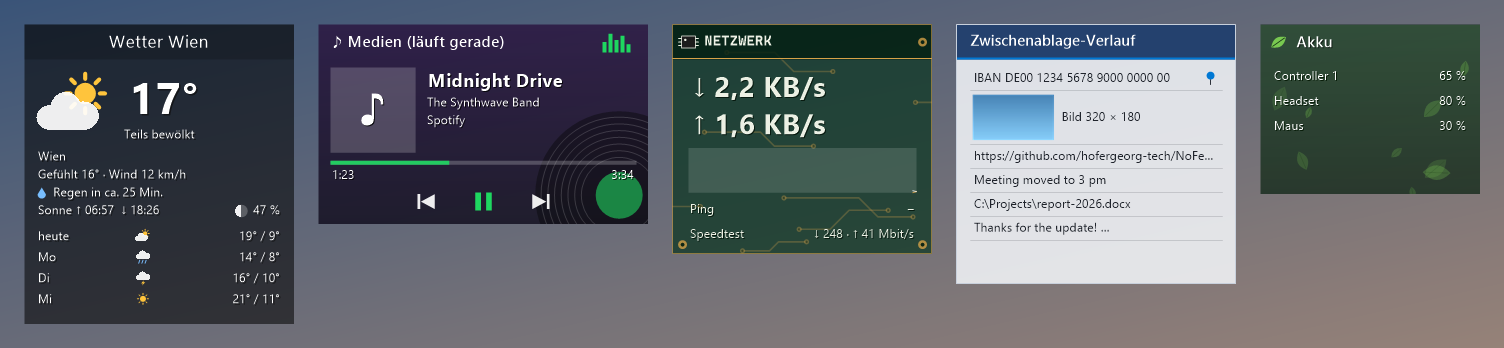
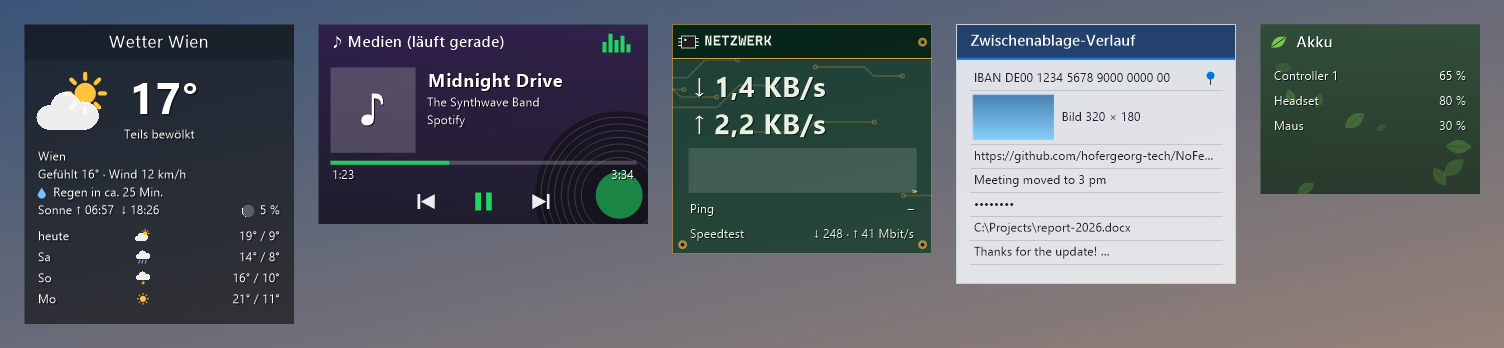
Clipboard history masks passwords (version 2.13.0)
- Entries that look like a password (one line, no spaces, 8-64 chars,
  three of upper/lower/digit/symbol, not a link, path or e-mail) show as
  dots, have no tooltip and can't be pinned, so they never end up in
  fences.json; a click still copies them. Menu: Mask passwords (default on)
- The widget option is now an object with the pinned list and the setting;
  the old plain list still loads
- Changelogs dated, help in five languages

diff --git a/NoFences/Widgets/ClipboardWidget.cs b/NoFences/Widgets/ClipboardWidget.cs
@@ -141,7 +141,12 @@ namespace NoFences.Widgets
                 return;
             try
             {
-                foreach (var p in JsonSerializer.Deserialize<List<PinnedEntry>>(json) ?? new())
+                // Up to 2.12 the option was just the list of pinned entries
+                var options = json.TrimStart().StartsWith('[')
+                    ? new Options { Pinned = JsonSerializer.Deserialize<List<PinnedEntry>>(json) ?? new() }
+                    : JsonSerializer.Deserialize<Options>(json) ?? new Options();
+                showPasswords = options.ShowPasswords;
+                foreach (var p in options.Pinned)
                 {
                     if (p.Text != null)
                         history.AddPinned(new ClipItem { Text = p.Text });
@@ -183,7 +188,28 @@ namespace NoFences.Widgets
                         pinned.Add(new PinnedEntry(null, item.File));
                 }
             }
-            setOption(pinned.Count == 0 ? null : JsonSerializer.Serialize(pinned));
+            setOption(pinned.Count == 0 && !showPasswords ? null : JsonSerializer.Serialize(new Options { Pinned = pinned, ShowPasswords = showPasswords }));
+        }
+
+        /// <summary>What the widget keeps in its fence's option.</summary>
+        private sealed class Options
+        {
+            public List<PinnedEntry> Pinned { get; set; } = new();
+
+            /// <summary>Off by default: entries that look like passwords show as dots.</summary>
+            public bool ShowPasswords { get; set; }
+        }
+
+        private bool showPasswords;
+
+        /// <summary>Shown as dots, no tooltip, can't be pinned (it would be saved as plain text).</summary>
+        private bool Masked(ClipItem item) => !showPasswords && item.Text != null && ClipboardHistory.LooksLikePassword(item.Text);
+
+        private void ToggleShowPasswords()
+        {
+            showPasswords = !showPasswords;
+            SavePinned();
+            RequestRedraw();
         }
 
         private void TogglePin(ClipItem item)
@@ -239,7 +265,8 @@ namespace NoFences.Widgets
                 }
                 else
                 {
-                    c.Text(ClipboardHistory.OneLine(item.Text ?? ""), new RectangleF(rect.X + c.Px(2), y + c.Px(2), textWidth, line));
+                    var shown = Masked(item) ? MaskedText : ClipboardHistory.OneLine(item.Text ?? "");
+                    c.Text(shown, new RectangleF(rect.X + c.Px(2), y + c.Px(2), textWidth, line));
                 }
                 if (item.Pinned)
                     DrawPin(c, rect.Right - c.Px(12), y + height / 2);
@@ -268,7 +295,10 @@ namespace NoFences.Widgets
             return hovered != null;
         }
 
-        public override string? TooltipAt(Point p) => ItemAt(p) is { Text: { } text } ? (text.Length > 400 ? text[..400] + " …" : text) : null;
+        private const string MaskedText = "••••••••";
+
+        public override string? TooltipAt(Point p) =>
+            ItemAt(p) is { Text: { } text } item && !Masked(item) ? (text.Length > 400 ? text[..400] + " …" : text) : null;
 
         public override bool Click(Point p)
         {
@@ -296,9 +326,10 @@ namespace NoFences.Widgets
         public override void AddMenuItems(ToolStripItemCollection menu, IWin32Window owner)
         {
             // The entry under the mouse when the menu opened
-            if (hovered is { } item && history.Items.Contains(item))
+            if (hovered is { } item && history.Items.Contains(item) && (item.Pinned || !Masked(item)))
                 menu.Add(item.Pinned ? Strings.ClipboardUnpin : Strings.ClipboardPin, null, (_, _) => TogglePin(item));
             menu.Add(Strings.ClipboardClear, null, (_, _) => history.Clear());
+            menu.Add(new ToolStripMenuItem(Strings.ClipboardMaskPasswords, null, (_, _) => ToggleShowPasswords()) { Checked = !showPasswords });
         }
 
         public override void Dispose()
@@ -469,6 +500,27 @@ namespace NoFences.Widgets
                 return false;
             return data.GetData("CanIncludeInClipboardHistory") is MemoryStream { Length: >= 4 } stream
                 && BitConverter.ToInt32(stream.ToArray(), 0) == 0;
+        }
+
+        /// <summary>
+        /// Guesses whether a copied text is a password (Windows has no marker for that; password managers set
+        /// one, and those copies aren't recorded at all): one line without spaces, 8–64 characters, at least
+        /// three of upper case, lower case, digits and symbols, and not a link, path or e-mail address.
+        /// </summary>
+        public static bool LooksLikePassword(string text)
+        {
+            var t = text.Trim();
+            if (t.Length is < 8 or > 64 || t.Any(char.IsWhiteSpace))
+                return false;
+            if (t.Contains("://") || t.StartsWith("www.", StringComparison.OrdinalIgnoreCase) || t.Contains('\\')
+                || t.Contains('/') || (t.Length > 2 && t[1] == ':'))
+                return false;
+            var at = t.IndexOf('@');
+            if (at > 0 && t.IndexOf('.', at) > at + 1)
+                return false; // e-mail address
+            var kinds = (t.Any(char.IsUpper) ? 1 : 0) + (t.Any(char.IsLower) ? 1 : 0) + (t.Any(char.IsDigit) ? 1 : 0)
+                        + (t.Any(c => !char.IsLetterOrDigit(c)) ? 1 : 0);
+            return kinds >= 3;
         }
 
         /// <summary>First line, whitespace collapsed, with "…" if there was more.</summary>

diff --git a/NoFences.Tests/ClipboardPasswordTests.cs b/NoFences.Tests/ClipboardPasswordTests.cs
@@ -1,0 +1,42 @@
+using NoFences.Widgets;
+
+namespace NoFences.Tests
+{
+    public class ClipboardPasswordTests
+    {
+        [Theory]
+        [InlineData("Tr0ub4dor&3", true)]
+        [InlineData("k9#Lmq2!xZ", true)]
+        [InlineData("Ab3x9Kq2", true)]          // a harmless code looks the same – masked too
+        [InlineData("correcthorsebattery", false)] // one kind of characters only
+        [InlineData("sommer2026", false)]       // two kinds: not recognised
+        [InlineData("Short1!", false)]          // under 8
+        [InlineData("Hello World 123!", false)] // spaces: a sentence
+        [InlineData("https://Example.com/A1", false)]
+        [InlineData(@"C:\Users\Me\File1.txt", false)]
+        [InlineData("Max.Muster1@example.com", false)]
+        [InlineData("line1A!\nline2B?", false)]
+        public void LooksLikePassword(string text, bool expected) => Assert.Equal(expected, ClipboardHistory.LooksLikePassword(text));
+
+        [Fact]
+        public void OldPinnedList_StillLoads_AndNewFormatKeepsTheSetting()
+        {
+            string? option = """[{"Text":"pinned note","Image":null}]""";
+            var widget = new ClipboardWidget(() => option, o => option = o);
+            Assert.Equal("pinned note", Assert.Single(widget.History.Items).Text);
+
+            // Any save writes the new format, which still holds the pinned entry
+            widget.AddMenuItems(new ContextMenuStrip().Items, null!);
+            var toggle = new ContextMenuStrip();
+            widget.AddMenuItems(toggle.Items, null!);
+            toggle.Items.Cast<ToolStripItem>().OfType<ToolStripMenuItem>().Last().PerformClick();
+            Assert.Contains("\"ShowPasswords\":true", option);
+            Assert.Contains("pinned note", option);
+            widget.Dispose();
+
+            var again = new ClipboardWidget(() => option, o => option = o);
+            Assert.Equal("pinned note", Assert.Single(again.History.Items).Text);
+            again.Dispose();
+        }
+    }
+}

diff --git a/NoFences/PreviewRenderer.cs b/NoFences/PreviewRenderer.cs
@@ -424,7 +424,7 @@ namespace NoFences
                     });
                     break;
                 case Widgets.ClipboardWidget clipboard:
-                    foreach (var text in new[] { "https://github.com/hofergeorg-tech/NoFences", "Meeting moved to 3 pm", "C:\\Projects\\report-2026.docx", "Thanks for the update!\nSee you tomorrow" }.Reverse())
+                    foreach (var text in new[] { "https://github.com/hofergeorg-tech/NoFences", "Meeting moved to 3 pm", "k9#Lmq2!xZ", "C:\\Projects\\report-2026.docx", "Thanks for the update!\nSee you tomorrow" }.Reverse())
                         clipboard.History.Add(text);
                     clipboard.History.AddPinned(new Widgets.ClipItem { Text = "IBAN DE00 1234 5678 9000 0000 00" });
                     using (var demo = new Bitmap(320, 180))

diff --git a/NoFences/Util/Strings.cs b/NoFences/Util/Strings.cs
@@ -828,6 +828,7 @@ namespace NoFences.Util
             ? L("RecycleItems", size)
             : L("RecycleItems.Alt", n, size);
         public static string FpsRemoved => L("FpsRemoved");
+        public static string ClipboardMaskPasswords => L("ClipboardMaskPasswords");
         public static string WidgetsRetired(string names) => L("WidgetsRetired", names);
 
         #endregion

diff --git a/CHANGELOG.fr.md b/CHANGELOG.fr.md
@@ -4,10 +4,11 @@ Toutes les modifications importantes de ce fork.
 English: [CHANGELOG.md](CHANGELOG.md) · Deutsch: [CHANGELOG.de.md](CHANGELOG.de.md) ·
 Italiano: [CHANGELOG.it.md](CHANGELOG.it.md) · Español: [CHANGELOG.es.md](CHANGELOG.es.md)
 
-## [2.13.0] - non publiée
+## [2.13.0] - 2026-10-09
 
 ### Modifications
 - **Moins de widgets, plus rapides** : moniteur système, lecteurs, corbeille, jeux, temps de jeu, promos Steam, Twitch et page web ont été supprimés. Ils ralentissaient NoFences (listes de processus, compteurs matériels, disques en veille) ou dépendaient de services non officiels ; le widget page web faisait en plus tourner un navigateur caché. Leurs barrières sont retirées au premier démarrage (une notification les liste ; la dernière sauvegarde les contient encore). L'exe est aussi plus petit.
+- **L'historique du presse-papiers masque les mots de passe** : ce qui y ressemble (une ligne, sans espaces, 8 à 64 caractères mélangés) s'affiche en points, sans info-bulle et sans épinglage (donc jamais enregistré en clair) ; un clic le copie quand même. À désactiver dans le menu du widget.
 - Le rangement depuis le bureau déplace les gros fichiers en arrière-plan au lieu de figer les barrières.
 - Les mises à jour ne sont installées que si le téléchargement correspond à la somme de contrôle indiquée par GitHub pour la version.
 - Les erreurs des widgets vont dans `logs\log.txt` ; les icônes périmées sont retirées de la mémoire.

diff --git a/CHANGELOG.es.md b/CHANGELOG.es.md
@@ -4,10 +4,11 @@ Todos los cambios importantes de este fork.
 English: [CHANGELOG.md](CHANGELOG.md) · Deutsch: [CHANGELOG.de.md](CHANGELOG.de.md) ·
 Italiano: [CHANGELOG.it.md](CHANGELOG.it.md) · Français : [CHANGELOG.fr.md](CHANGELOG.fr.md)
 
-## [2.13.0] - sin publicar
+## [2.13.0] - 2026-10-09
 
 ### Cambios
 - **Menos widgets, más rápidos**: se eliminaron monitor del sistema, unidades, papelera, juegos, tiempo de juego, ofertas de Steam, Twitch y página web. Ralentizaban NoFences (listas de procesos, contadores de hardware, discos en reposo) o dependían de servicios no oficiales; el widget de página web además ejecutaba un navegador oculto. Sus vallas se quitan en el primer inicio (un aviso las enumera; la última copia de seguridad todavía las tiene). El exe también es más pequeño.
+- **El historial del portapapeles oculta las contraseñas**: lo que lo parece (una línea, sin espacios, 8–64 caracteres mezclados) aparece como puntos, sin información emergente y sin poder anclarse (así nunca se guarda en texto claro); un clic lo copia igualmente. Se desactiva en el menú del widget.
 - Ordenar desde el escritorio mueve los archivos grandes en segundo plano en lugar de congelar las vallas.
 - Las actualizaciones solo se instalan si la descarga coincide con la suma de comprobación que GitHub indica para la versión.
 - Los errores de los widgets van a `logs\log.txt`; los iconos desactualizados se quitan de la memoria.

diff --git a/CHANGELOG.it.md b/CHANGELOG.it.md
@@ -4,10 +4,11 @@ Tutte le modifiche importanti a questo fork.
 English: [CHANGELOG.md](CHANGELOG.md) · Deutsch: [CHANGELOG.de.md](CHANGELOG.de.md) ·
 Français : [CHANGELOG.fr.md](CHANGELOG.fr.md) · Español: [CHANGELOG.es.md](CHANGELOG.es.md)
 
-## [2.13.0] - non pubblicata
+## [2.13.0] - 2026-10-09
 
 ### Modifiche
 - **Meno widget, più veloci**: monitor di sistema, unità, cestino, giochi, tempo di gioco, offerte Steam, Twitch e pagina web sono stati rimossi. Rallentavano NoFences (elenchi dei processi, contatori hardware, dischi in sospensione) o dipendevano da servizi non ufficiali; il widget pagina web usava inoltre un browser nascosto. I loro recinti vengono tolti al primo avvio (un avviso li elenca; l'ultimo backup li contiene ancora). Anche l'eseguibile è più piccolo.
+- **La cronologia degli appunti maschera le password**: ciò che ne ha l'aspetto (una riga, senza spazi, 8–64 caratteri misti) appare come puntini, senza tooltip e non si può fissare (quindi non viene mai salvato in chiaro); un clic lo copia comunque. Si disattiva nel menu del widget.
 - L'ordinamento dal desktop sposta i file grandi in background invece di bloccare i recinti.
 - Gli aggiornamenti vengono installati solo se il download corrisponde al checksum che GitHub indica per la release.
 - Gli errori dei widget finiscono in `logs\log.txt`; le icone superate vengono tolte dalla memoria.

diff --git a/AIDE.md b/AIDE.md
@@ -154,7 +154,10 @@ Menu de la zone de notification ou d'une barrière → **Nouveau widget**. Les w
   débit** d'un clic (mesure environ 12 secondes via speed.cloudflare.com).
 - **Historique du presse-papiers** : les 15 derniers textes et **images** copiés ; un clic les copie à nouveau. Clic droit
   sur une entrée → **épingler** : les entrées épinglées restent en haut, même après un redémarrage. Le reste n'est
-  conservé que tant que NoFences tourne ; les mots de passe des gestionnaires de mots de passe sont ignorés.
+  conservé que tant que NoFences tourne ; les mots de passe des gestionnaires de mots de passe sont ignorés. Ce qui
+  ressemble à un mot de passe (une ligne sans espaces, 8 à 64 caractères, mélange de majuscules/minuscules, chiffres et
+  symboles) s'affiche en `••••••••`, sans info-bulle et sans épinglage ; un clic le copie quand même. À désactiver dans
+  le menu du widget (« Masquer les mots de passe »).
 - **Batterie** : charge, en charge ou non, autonomie restante (portables), plus la batterie des **manettes** (Xbox/XInput)
   et des **appareils Bluetooth** qui la transmettent à Windows (casques, beaucoup de souris et claviers).
 - **Rendez-vous** : les deux prochaines semaines depuis des liens d'agenda (.ics). Google : paramètres de l'agenda →

diff --git a/AYUDA.md b/AYUDA.md
@@ -145,7 +145,10 @@ Menú de la bandeja o de una valla → **Nuevo widget**. Los widgets con listas 
   clic (mide unos 12 segundos con speed.cloudflare.com).
 - **Historial del portapapeles**: los 15 últimos textos e **imágenes** copiados; un clic los copia de nuevo. Clic derecho
   en una entrada → **fijar**: las fijadas quedan arriba, incluso tras reiniciar. Lo demás solo se guarda mientras
-  NoFences está abierto; las contraseñas de los gestores de contraseñas se omiten.
+  NoFences está abierto; las contraseñas de los gestores de contraseñas se omiten. Lo que parece una contraseña (una
+  línea sin espacios, 8–64 caracteres, mezcla de mayúsculas/minúsculas, cifras y símbolos) aparece como `••••••••`, sin
+  información emergente y sin poder anclarse; un clic la copia igualmente. Se desactiva en el menú del widget («Ocultar
+  contraseñas»).
 - **Batería**: carga, si se está cargando, tiempo restante (portátiles), además de la batería de **mandos** (Xbox/XInput)
   y **dispositivos Bluetooth** que la informan a Windows (auriculares, muchos ratones y teclados).
 - **Citas**: las próximas dos semanas desde enlaces de calendario (.ics). Google: configuración del calendario →

diff --git a/CHANGELOG.de.md b/CHANGELOG.de.md
@@ -4,10 +4,13 @@ Alle wichtigen Änderungen an diesem Fork.
 English: [CHANGELOG.md](CHANGELOG.md) · Italiano: [CHANGELOG.it.md](CHANGELOG.it.md) ·
 Français : [CHANGELOG.fr.md](CHANGELOG.fr.md) · Español: [CHANGELOG.es.md](CHANGELOG.es.md)
 
-## [2.13.0] - unveröffentlicht
+## [2.13.0] - 2026-10-09
 
 ### Entfernt
 - **Weniger, schnellere Widgets**: System-Monitor, Laufwerke, Papierkorb, Spiele, Spielzeit, Steam-Angebote, Twitch und Webseite sind weg. Sie haben NoFences gebremst (Prozesslisten, Hardware-Zähler, schlafende Festplatten) oder hingen an inoffiziellen Diensten; das Webseiten-Widget lief zudem mit einem versteckten Browser. Ihre Fences werden beim ersten Start herausgenommen (ein Hinweis nennt sie; die letzte Sicherung enthält sie noch). Die EXE ist dadurch auch kleiner.
+
+### Neu
+- **Zwischenablage-Verlauf maskiert Passwörter**: Was wie eins aussieht (eine Zeile, keine Leerzeichen, 8–64 gemischte Zeichen), erscheint als Punkte, ohne Tooltip und nicht anheftbar (wird also nie im Klartext gespeichert); ein Klick kopiert es trotzdem. Abschaltbar im Widget-Menü.
 
 ### Geändert
 - Einsortieren verschiebt große Dateien vom Desktop im Hintergrund, statt die Fences einzufrieren.

diff --git a/HILFE.md b/HILFE.md
@@ -147,7 +147,9 @@ Tray- oder Fence-Menü → **Neues Widget**. Widgets mit Listen scrollen mit dem
   12 Sekunden über speed.cloudflare.com).
 - **Zwischenablage-Verlauf**: die letzten 15 kopierten Texte und **Bilder**; anklicken kopiert sie erneut. Rechtsklick auf
   einen Eintrag → **anheften**: Angeheftete bleiben oben, auch nach einem Neustart. Der Rest gilt nur, solange NoFences
-  läuft; Passwörter aus Passwort-Managern werden übersprungen.
+  läuft; Passwörter aus Passwort-Managern werden übersprungen. Was wie ein Passwort aussieht (eine Zeile ohne Leerzeichen,
+  8–64 Zeichen, gemischt aus Groß-/Kleinbuchstaben, Ziffern, Sonderzeichen), erscheint als `••••••••`, ohne Tooltip und
+  nicht anheftbar; ein Klick kopiert es trotzdem. Abschalten im Widget-Menü („Passwörter maskieren“).
 - **Akku**: Ladestand, ob geladen wird, Restzeit (Laptops), dazu der Akku von **Controllern** (Xbox/XInput) und
   **Bluetooth-Geräten**, die ihn an Windows melden (Headsets, viele Mäuse und Tastaturen).
 - **Termine**: die nächsten zwei Wochen aus Kalender-Links (.ics). Google: Kalendereinstellungen → „Privatadresse im

diff --git a/AIUTO.md b/AIUTO.md
@@ -143,7 +143,9 @@ Menu della barra o del recinto → **Nuovo widget**. I widget con un elenco scor
   (misura circa 12 secondi tramite speed.cloudflare.com).
 - **Cronologia appunti**: gli ultimi 15 testi e **immagini** copiati; un clic li copia di nuovo. Clic destro su una voce →
   **fissa**: le voci fissate restano in alto, anche dopo un riavvio. Il resto è conservato solo finché NoFences è
-  aperto; le password dei gestori di password vengono ignorate.
+  aperto; le password dei gestori di password vengono ignorate. Ciò che sembra una password (una riga senza spazi,
+  8–64 caratteri, mix di maiuscole/minuscole, cifre e simboli) appare come `••••••••`, senza tooltip e non si può
+  fissare; un clic la copia comunque. Si disattiva nel menu del widget ("Maschera le password").
 - **Batteria**: carica, se è in carica, tempo rimanente (portatili), più la batteria dei **controller** (Xbox/XInput) e
   dei **dispositivi Bluetooth** che la comunicano a Windows (cuffie, molti mouse e tastiere).
 - **Appuntamenti**: le prossime due settimane dai link dei calendari (.ics). Google: impostazioni del calendario →
